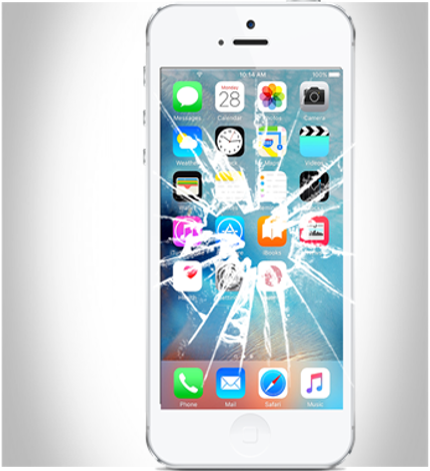
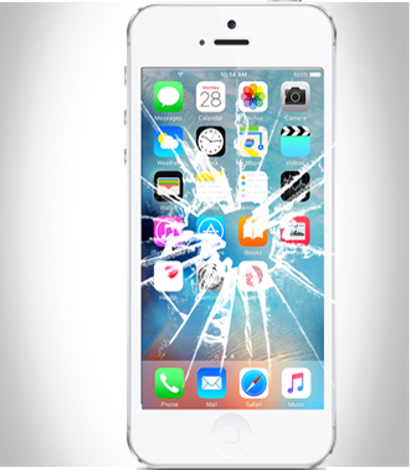
added iphone compare

diff --git a/client/src/Views/Header/Header.css b/client/src/Views/Header/Header.css
@@ -1,23 +1,28 @@
 .head{
    
     color: black;
-    background-color: white;
+    
     height: 743.2px;
 }
 
 .Title{
+    margin-top:5%;
     padding-top: 10%;
+    color: aliceblue;
+    font-family: 'Sunflower', sans-serif;
     padding-left: 15%;
 }
-
+.backr{
+    
+}
 .Iphone{
     /* background-size:auto 400px; */
     z-index: -1;
     background-repeat: no-repeat;
     /* margin: 0 auto; */
-  margin-top: 30%;
+  margin-top: 45%;
    /* height: 300px; */
-   width: 230px;
+   width: 320px;
    border-radius: 100px;
    background-position: 50% 50%;
    background-repeat: no-repeat;
@@ -42,7 +47,12 @@ padding-right: 10px;
     /* padding-left: 7%; */
 }
 .info{
+    margin-left: 70px;
+    padding-left: 50px;
+    margin-top: -180px;
     width: 55%;
+    color: aliceblue;
+    font-family: 'IBM Plex Sans', sans-serif;
     /* padding-left: 12%; */
     font-size: 13.5px;
     /* padding-right: 5%; */

diff --git a/client/src/Views/Header/Header.jsx b/client/src/Views/Header/Header.jsx
@@ -24,7 +24,7 @@ const Fixed_Iphone=Iphone;
 
     return (
 
-        <Grid >
+        <Grid className='backr'>
         <div className='head'> 
         <Row>
             <Col lg={8}>
@@ -44,10 +44,13 @@ const Fixed_Iphone=Iphone;
      </div>
      </Col> 
       </Row>
+      <Row>
+          <Col lg={5}>
       <div className='info'>
 <p > Lorem Ipsum is simply dummy text of the printing and typesetting industry. Lorem Ipsum has been the industry's standard dummy text ever since the 1500s, when an unknown printer took a galley of type and scrambled it to make a type specimen book.</p>
       </div>
-   
+   </Col>
+   </Row>
         </div>
         </Grid>
     

diff --git a/client/public/index.html b/client/public/index.html
@@ -9,8 +9,9 @@
 
 <!-- Optional theme -->
 <link rel="stylesheet" href="https://maxcdn.bootstrapcdn.com/bootstrap/3.3.7/css/bootstrap-theme.min.css" integrity="sha384-rHyoN1iRsVXV4nD0JutlnGaslCJuC7uwjduW9SVrLvRYooPp2bWYgmgJQIXwl/Sp" crossorigin="anonymous">
-          
-    <!--
+<link href="https://fonts.googleapis.com/css?family=Sunflower:300" rel="stylesheet">
+<link href="https://fonts.googleapis.com/css?family=IBM+Plex+Sans" rel="stylesheet">   
+<!--
       manifest.json provides metadata used when your web app is added to the
       homescreen on Android. See https://developers.google.com/web/fundamentals/engage-and-retain/web-app-manifest/
     -->

diff --git a/client/src/Views/app.scss b/client/src/Views/app.scss
@@ -4,10 +4,12 @@
 .header{
   // height: 100px;
   // width: 100%;
-  background-color: grey !important;
+
   clear: both;
 }
 .TheHeader{
   padding-top: 100px;
+  background-color:gray;
+  filter:sepia(18.5%);	
   // background-color: grey;
 }

diff --git a/client/src/Views/NavBar/Navbar.css b/client/src/Views/NavBar/Navbar.css
@@ -8,7 +8,7 @@
 }
 
 .service{
-    color: black;
+    color:white;
     font-weight: 900;
   
 }
